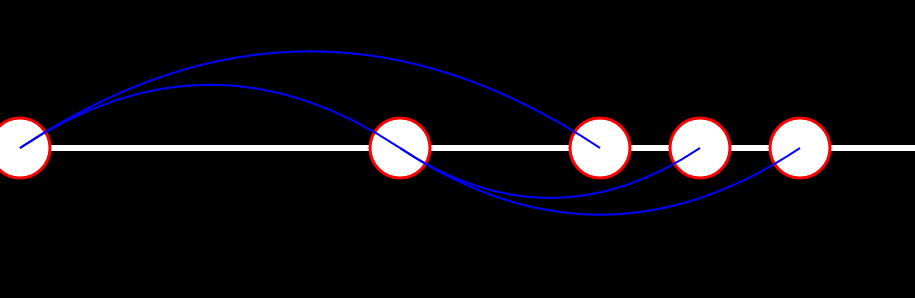
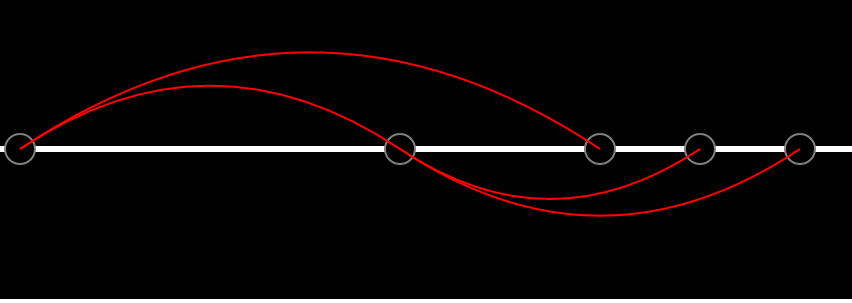
Changed colors

Changed region(s): [[0.0, 0.151, 1.0, 0.7248], [0.0, 0.9664, 1.0, 1.0]]

diff --git a/index.html b/index.html
@@ -6,14 +6,14 @@
     <style>
       .node {
         cursor: pointer;
-        fill: #fff;
-        stroke: red;
-        stroke-width: 3px;
+        fill: black;
+        stroke: gray;
+        stroke-width: 2px;
       }
 
       .link {
         fill: rgba(0,0,0,0);
-        stroke: blue;
+        stroke: red;
         stroke-width: 2px;
       }
 
@@ -127,7 +127,7 @@
       .attr("id",function(d){return "node-"+d.id})
       .attr("cx",function(d){return d.x;})
       .attr("cy",H/2)
-      .attr("r", 30);
+      .attr("r", 15);
 
   var linkWrapper = svg.append("g").attr("id","links").selectAll("path.link")
       .data(links, function(d) { return d.target.id; })
